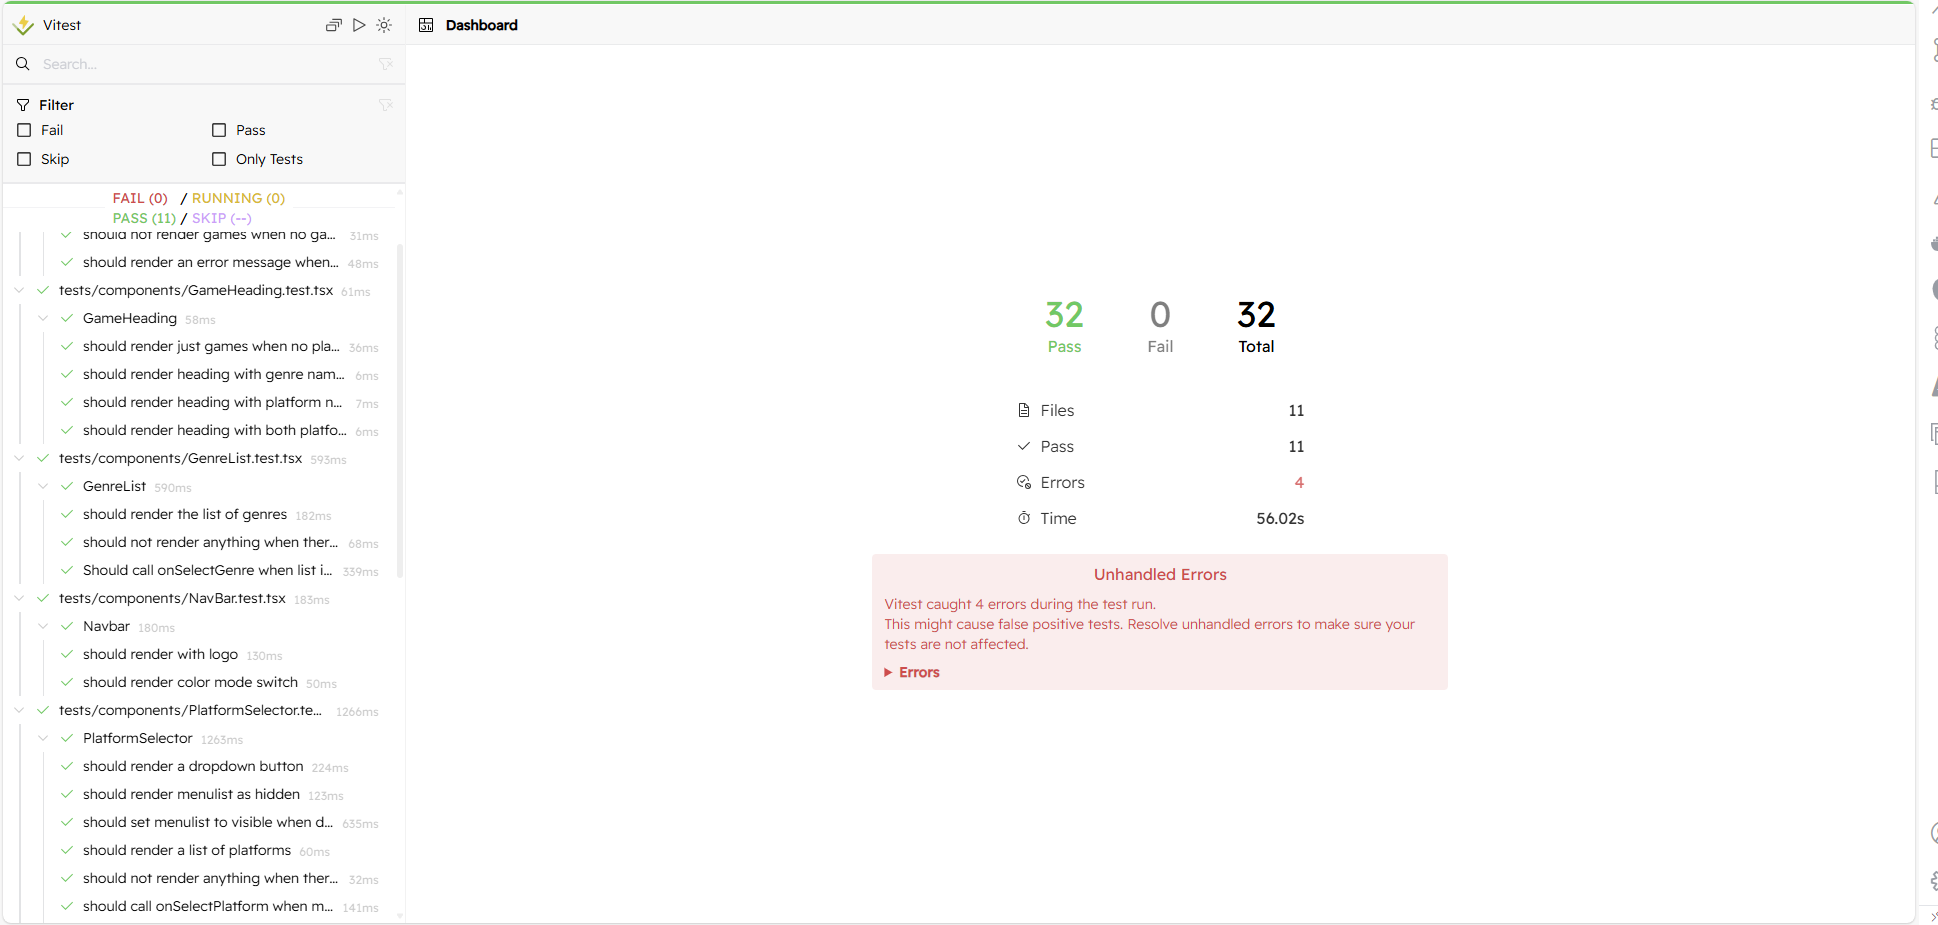
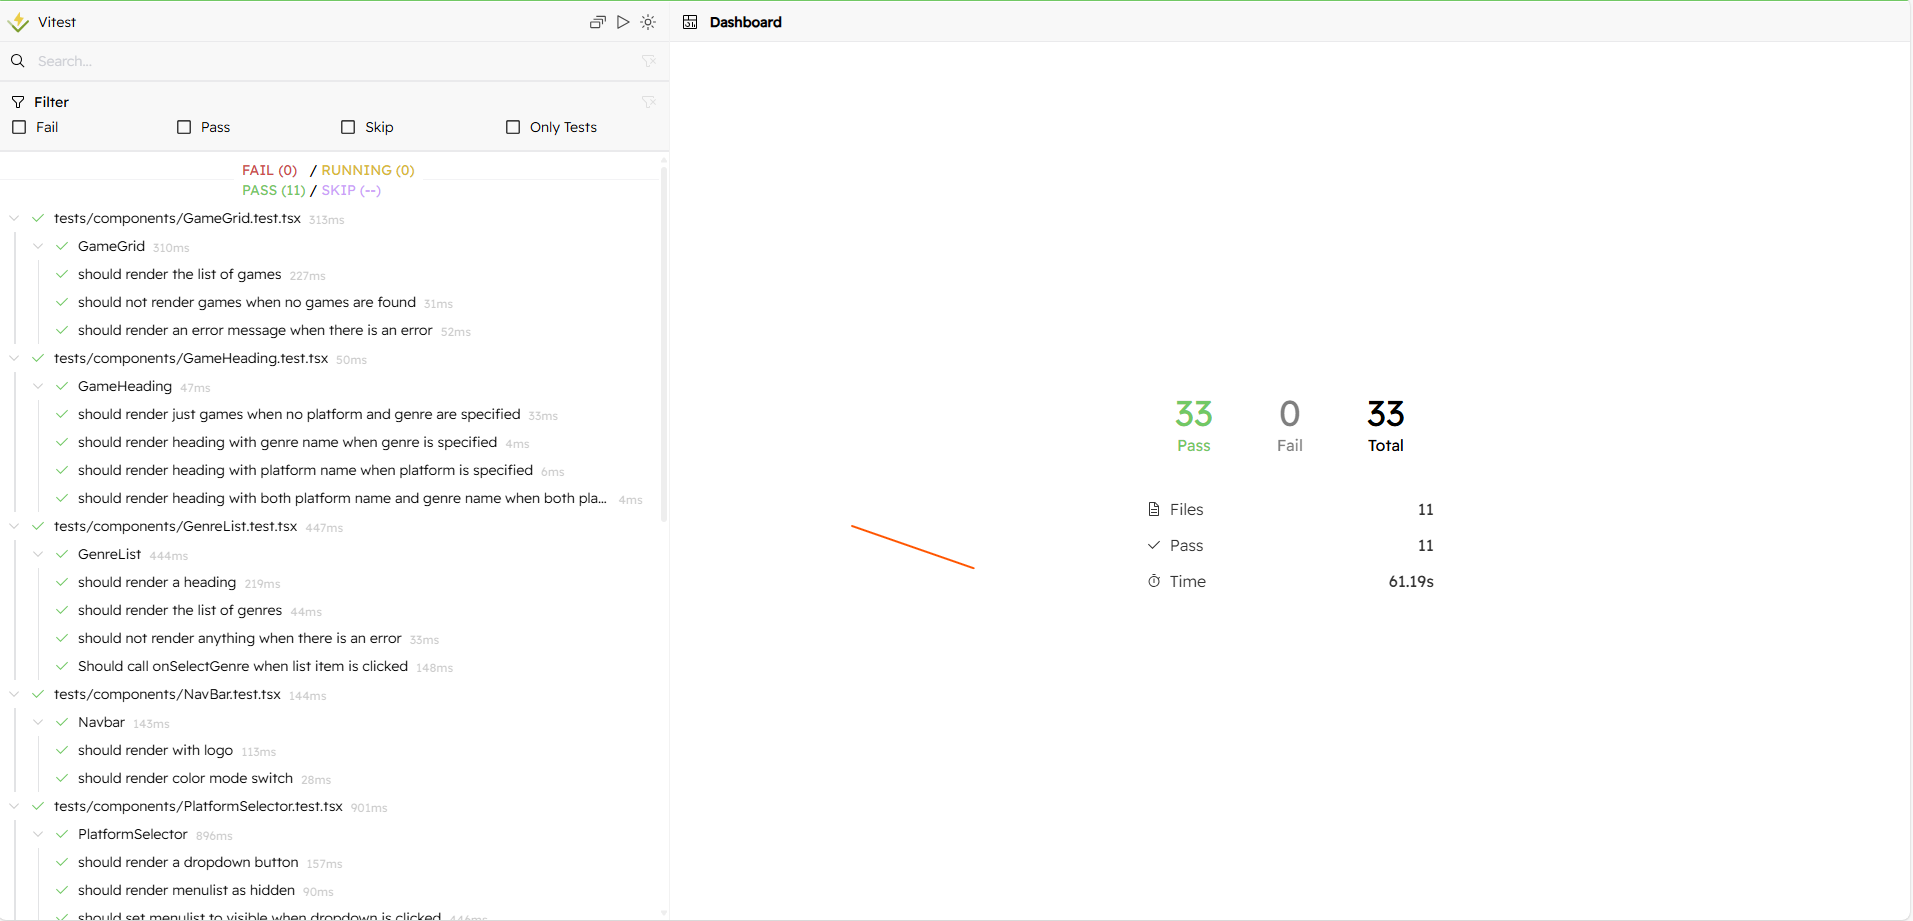
cleaned up genres

diff --git a/src/components/GenreList.tsx b/src/components/GenreList.tsx
@@ -1,5 +1,6 @@
 import {
   Button,
+  Heading,
   HStack,
   Image,
   List,
@@ -23,27 +24,37 @@ const GenreList = ({ onSelectGenre, selectedGenre }: Props) => {
   if (isLoading) return <Spinner />;
 
   return (
-    <List data-testid='genre-list'>
-      {genres.map((genre) => (
-        <ListItem key={genre.id} paddingY="5px" data-testid={`genre-item-${genre.id}`}>
-          <HStack>
-            <Image
-              boxSize="34px"
-              borderRadius={8}
-              src={getCroppedImageUrl(genre.image_background)}
-            />
-            <Button
-              fontWeight={genre.id === selectedGenre?.id ? "bold" : "normal"}
-              fontSize="lg"
-              variant="link"
-              onClick={() => onSelectGenre(genre)}
-            >
-              {genre.name}
-            </Button>
-          </HStack>
-        </ListItem>
-      ))}
-    </List>
+    <>
+      <Heading fontSize='2xl' marginBottom={3}>Genres</Heading>
+      <List data-testid="genre-list">
+        {genres.map((genre) => (
+          <ListItem
+            key={genre.id}
+            paddingY="5px"
+            data-testid={`genre-item-${genre.id}`}
+          >
+            <HStack>
+              <Image
+                boxSize="34px"
+                objectFit='cover'
+                borderRadius={8}
+                src={getCroppedImageUrl(genre.image_background)}
+              />
+              <Button
+                whiteSpace="normal"
+                textAlign='left'
+                fontWeight={genre.id === selectedGenre?.id ? "bold" : "normal"}
+                fontSize="lg"
+                variant="link"
+                onClick={() => onSelectGenre(genre)}
+              >
+                {genre.name}
+              </Button>
+            </HStack>
+          </ListItem>
+        ))}
+      </List>
+    </>
   );
 };
 

diff --git a/tests/components/GenreList.test.tsx b/tests/components/GenreList.test.tsx
@@ -6,6 +6,7 @@ import { genres } from "../mocks/data";
 import { server } from "../mocks/server";
 import { http, HttpResponse } from "msw";
 import userEvent from '@testing-library/user-event';
+import '@testing-library/jest-dom/vitest'
 
 describe("GenreList", () => {
   const renderGenreListComponent = async () => {
@@ -17,6 +18,15 @@ describe("GenreList", () => {
       genreList: await screen.findByTestId("genre-list"),
     };
   };
+
+  it('should render a heading', async () => {
+    await renderGenreListComponent();
+
+    const heading = screen.getByRole('heading');
+
+    expect(heading).toBeInTheDocument();
+    expect(heading).toHaveTextContent(/genres/i);
+  })
 
   it("should render the list of genres", async () => {
     const { genreList } = await renderGenreListComponent();

diff --git a/tests/components/PlatformSelector.test.tsx b/tests/components/PlatformSelector.test.tsx
@@ -72,7 +72,7 @@ describe("PlatformSelector", () => {
         `platform-menuitem-${platform.id}`
       );
 
-      expect(menuItem).toBeInTheDocument();
+      expect(menuItem).toHaveTextContent(`${platform.name}`)
     });
   });
 
